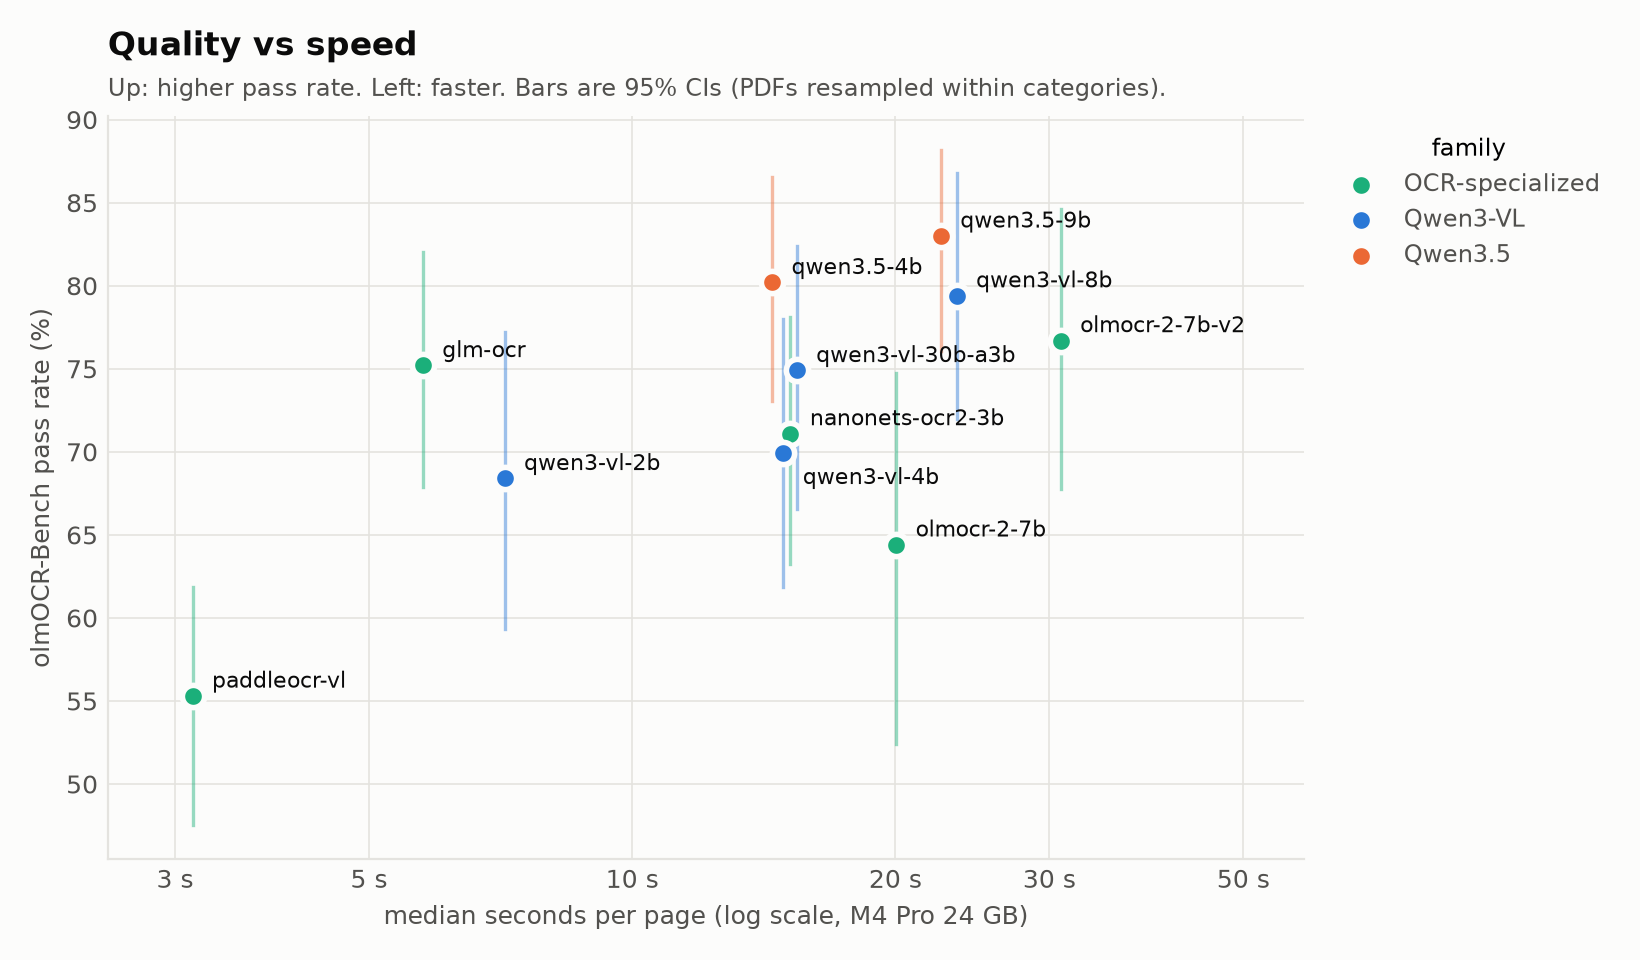
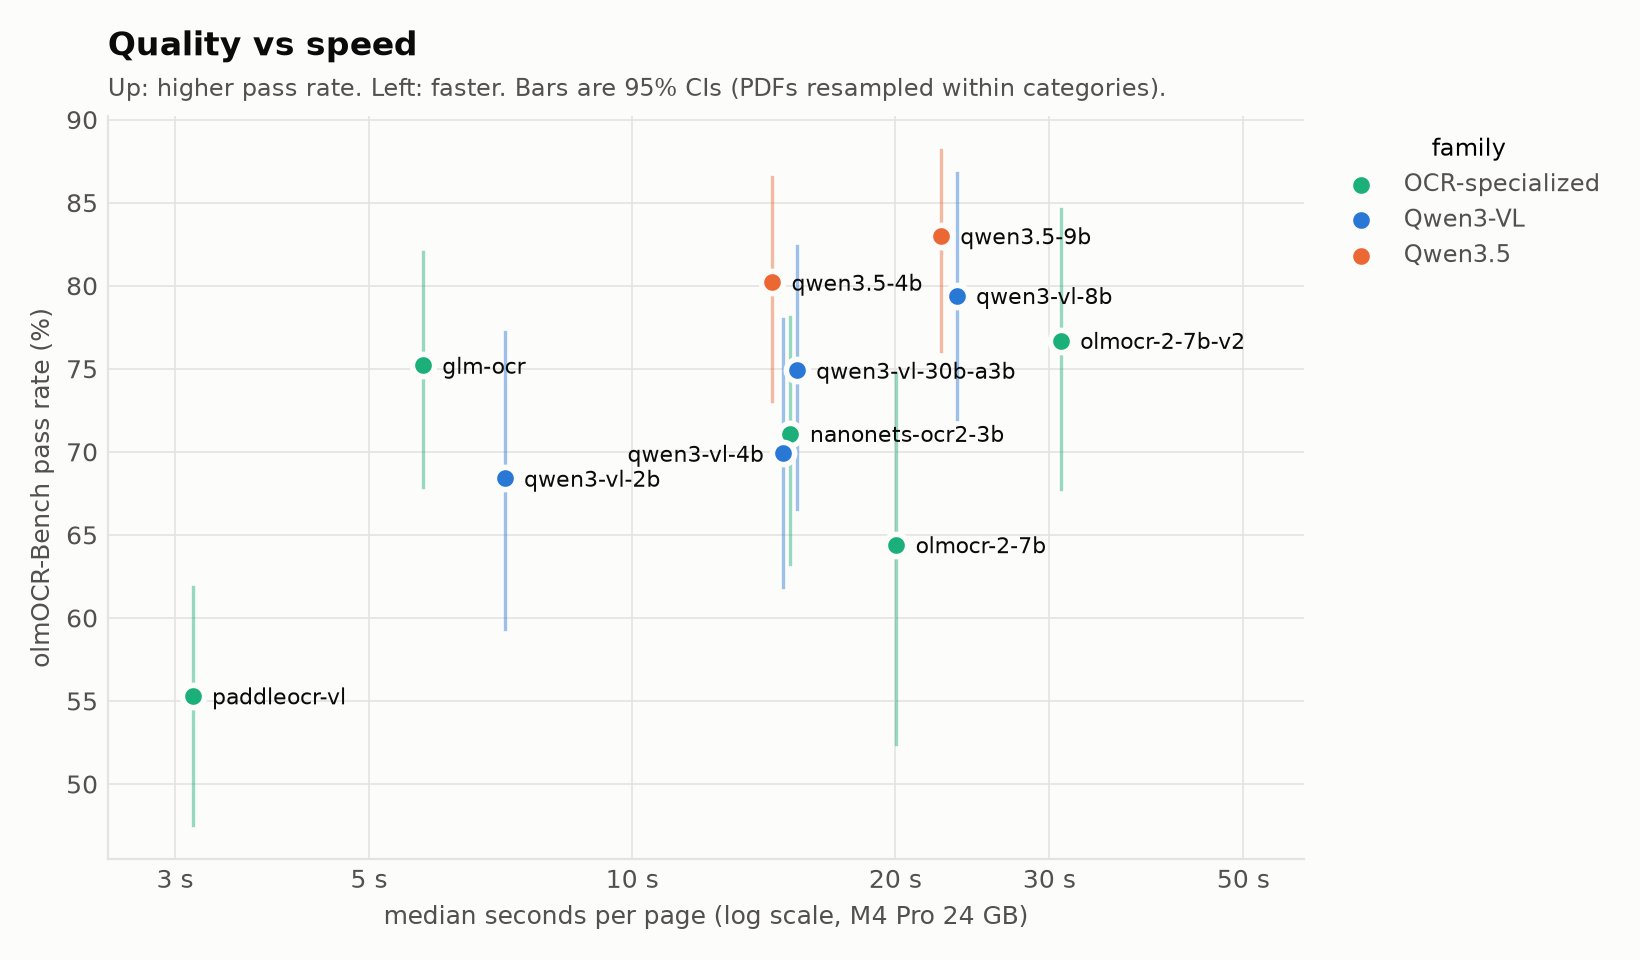
docs: technical report as generated LaTeX, compiled with tectonic
scripts/build_report.py now writes docs/report/docingest_report.tex (article class,
Computer Modern, booktabs, TikZ architecture figure, cross-references, bibliography) from the run data and compiles it with tectonic into
docs/docingest_report.pdf. Figures are vector PDFs from bench_charts.py --paper, set
in Computer Modern to match the text. docs/report/ is self-contained and compiles on
Overleaf with the default pdfLaTeX. Replaces the ReportLab builder.

diff --git a/scripts/bench_charts.py b/scripts/bench_charts.py
@@ -1,14 +1,14 @@
 """Charts for a benchmark run: quality vs speed, olmOCR-Bench categories, synthetic CER.
 
     uv run python scripts/bench_charts.py data/bench/runs/screen docs/benchmark
-    uv run python scripts/bench_charts.py data/bench/runs/screen docs/benchmark/paper --paper
+    uv run python scripts/bench_charts.py data/bench/runs/screen docs/report/figures --paper
 
 Reads <run>/summary.json (written by `docingest bench report`) and writes PNGs.
 Colors follow a validated palette (scripts: dataviz validator): three family hues
 (all-pairs CVD-safe) with direct labels on every point, and a one-hue blue ramp for
-magnitudes and ordered levels. --paper writes print-style versions for the technical
-report: black and white, serif type, families told apart by marker shape, no titles
-(the report captions them), display names instead of candidate ids.
+magnitudes and ordered levels. --paper writes print-style vector PDFs for the LaTeX
+report: black and white, Computer Modern type, families told apart by marker shape, no
+titles (the report captions them), display names instead of candidate ids.
 """
 
 from __future__ import annotations
@@ -51,12 +51,13 @@ LEVELS = {"clean": "#86b6ef", "light": "#2a78d6", "heavy": "#104281"}  # ordinal
 MARKER = {"Qwen3-VL": "o", "Qwen3.5": "o", "OCR-specialized": "o"}
 EDGE = SURFACE
 PAPER = False
+EXT = "png"
 NAMES: dict[str, str] = {}  # candidate id -> label shown (paper mode)
 
 
 def use_paper_style() -> None:
     """Monochrome, serif, print-style variant (for the technical report)."""
-    global SURFACE, TEXT, TEXT_2, GRID, FAMILY, RAMP, LEVELS, MARKER, EDGE, PAPER, NAMES  # noqa: PLW0603
+    global SURFACE, TEXT, TEXT_2, GRID, FAMILY, RAMP, LEVELS, MARKER, EDGE, PAPER, NAMES, EXT  # noqa: PLW0603
     from bench_docs import DISPLAY
 
     PAPER = True
@@ -67,8 +68,17 @@ def use_paper_style() -> None:
     LEVELS = {"clean": "#ffffff", "light": "#8c8c8c", "heavy": "#000000"}
     EDGE = "#000000"
     NAMES = DISPLAY
+    EXT = "pdf"  # vector, for LaTeX
     matplotlib.rcParams.update(
-        {"font.family": "STIXGeneral", "mathtext.fontset": "stix", "font.size": 9}
+        {
+            "font.family": "serif",
+            "font.serif": ["cmr10"],  # Computer Modern, like the LaTeX text around it
+            "mathtext.fontset": "cm",
+            "axes.unicode_minus": False,  # cmr10 has no Unicode minus
+            "axes.formatter.use_mathtext": True,
+            "pdf.fonttype": 42,  # embed TrueType, text stays selectable
+            "font.size": 9,
+        }
     )
 
 
@@ -140,7 +150,9 @@ def place_labels(fig, ax, points: list[tuple[str, float, float]]) -> None:
     to_disp = ax.transData.transform
     markers = [to_disp((x, y)) for _, x, y in points]
     placed = []
-    offsets = [
+    offsets = [  # beside the marker first (unambiguous), then above/below
+        (7, -3, "left"),
+        (-7, -3, "right"),
         (7, 3, "left"),
         (7, -11, "left"),
         (-7, 3, "right"),
@@ -240,7 +252,7 @@ def quality_vs_speed(summary: dict, out: Path) -> Path | None:
         bbox_to_anchor=(1.01, 1.0),
     )
     fig.tight_layout()
-    path = out / "quality_vs_speed.png"
+    path = out / f"quality_vs_speed.{EXT}"
     fig.savefig(path, facecolor=SURFACE)
     plt.close(fig)
     return path
@@ -291,7 +303,7 @@ def categories(summary: dict, out: Path) -> Path | None:
         "Rows ordered by mean pass rate; each cell is one category's test pass rate.",
     )
     fig.tight_layout()
-    path = out / "olmocr_categories.png"
+    path = out / f"olmocr_categories.{EXT}"
     fig.savefig(path, facecolor=SURFACE)
     plt.close(fig)
     return path
@@ -348,7 +360,7 @@ def synthetic(summary: dict, out: Path) -> Path | None:
         bbox_to_anchor=(1.01, 1.0),
     )
     fig.tight_layout()
-    path = out / "synthetic_cer.png"
+    path = out / f"synthetic_cer.{EXT}"
     fig.savefig(path, facecolor=SURFACE)
     plt.close(fig)
     return path

diff --git a/README.md b/README.md
@@ -133,7 +133,7 @@ There are two suites:
 - **Synthetic degraded scans.** Born-digital pages at three degradation levels, scored against the true text layer with CER, WER, word-F1 and char-3-gram F1, each with bootstrap 95% CIs.
 - **olmOCR-Bench subset.** Real old scans, math, tables, multi-column pages, headers and footers, and tiny text. It is scored by the **official scorer**, so the numbers can be compared with published results.
 
-Results and model-by-model comparisons (quality, speed, memory, failure modes) are in [docs/benchmark.md](docs/benchmark.md). A shareable technical report in plain article form, with the same numbers, is [docs/docingest_report.pdf](docs/docingest_report.pdf); `scripts/build_report.py` rebuilds it from the run data. The benchmark compares the models; it does not pick one. The default in `config/pipeline.toml` is simply the first model that was integrated.
+Results and model-by-model comparisons (quality, speed, memory, failure modes) are in [docs/benchmark.md](docs/benchmark.md). A shareable technical report with the same numbers is [docs/docingest_report.pdf](docs/docingest_report.pdf). Its LaTeX source, generated from the run data by `scripts/build_report.py` and compiled with tectonic, is in [docs/report/](docs/report/); that folder also compiles as is on Overleaf. The benchmark compares the models; it does not pick one. The default in `config/pipeline.toml` is simply the first model that was integrated.
 
 ## PaperQA2 integration
 
